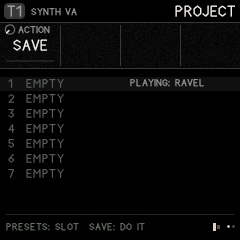
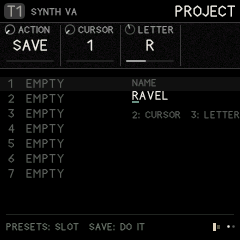
SAVE > PROJECT: name the project, as SOUNDS names a sound
KNOB 2 (CURSOR) and KNOB 3 (LETTER) edit the project's name, shown on
the right with a mark under the letter on the cursor; SAVE keeps it with
the slot and LOAD brings it back. The host gains expect name; a scenario
names a project, saves it and reads the slot's name back.

Claude-Session: https://claude.ai/code/session_01BwzGhPZLDZkrxZk5dy3Yyf

diff --git a/firmware/app/rv_ui.c b/firmware/app/rv_ui.c
@@ -177,7 +177,7 @@ static const page_t pages[] = {
     {SEC_SONG, V_ALL, PIC_CLOCK, PR_NONE, "CLOCK B", {GP(GP_CLKSHAPE), GP(GP_CLKBRATE), GP(GP_CLKBSHAPE), GP(GP_CLKTHR)}},
     {SEC_SONG, V_ALL, PIC_CLOCK, PR_NONE, "CLOCK FEEL", {GP(GP_CLKLOCK), GP(GP_QUANT), GP(GP_METRO), GP(GP_COUNTIN)}},
 
-    {SEC_SAVE, V_ALL, PIC_SAVE, PR_SLOT, "PROJECT", {{K_SAVE, 0}, NO, NO, NO}},
+    {SEC_SAVE, V_ALL, PIC_SAVE, PR_SLOT, "PROJECT", {{K_SAVE, 0}, {K_SAVE, 1}, {K_SAVE, 2}, NO}},   /* the action; the project's name, as SOUNDS names a sound */
     {SEC_SAVE, V_ALL, PIC_BANK, PR_BANK, "SOUNDS", {{K_BANK, 0}, {K_BANK, 1}, {K_BANK, 2}, {K_BANK, 3}}},   /* your own sounds, any kind, in banks A-D */
 };
 #define NPAGES ((int)(sizeof(pages) / sizeof(pages[0])))
@@ -199,7 +199,7 @@ static struct {
     uint8_t step_turned;
     uint8_t key_note[NKEYS];
     uint8_t key_trk[NKEYS];                  /* the track a key's note went to, + 1 (0: the key plays no note) */
-    uint8_t cur_route, cur_mat, cur_macro, cur_row, cur_arr, cur_arc, cur_scene, cur_slot, save_action;
+    uint8_t cur_route, cur_mat, cur_macro, cur_row, cur_arr, cur_arc, cur_scene, cur_slot, save_action, proj_cursor;
     uint16_t cur_lib;
     int16_t preset_idx[RV_TRACKS];
     char msg[24];
@@ -661,10 +661,16 @@ static kinfo_t kb_info(kb_t k)
         break;
     }
     case K_SAVE:
-        r.name = "ACTION";
-        r.max = 5;
-        r.fmt = PF_ENUM;
-        r.names = save_actions;
+        if (k.id == 0) {
+            r.name = "ACTION";
+            r.max = 5;
+            r.fmt = PF_ENUM;
+            r.names = save_actions;
+        } else {                                      /* the project's name: where, then which letter */
+            r.name = k.id == 1 ? "CURSOR" : "LETTER";
+            r.min = k.id == 1 ? 1 : 0;
+            r.max = k.id == 1 ? (int)sizeof rv.name - 1 : rv_bank_nchars() - 1;
+        }
         break;
     case K_BANK:                              /* SOUNDS: the action, then the name (a used slot's) */
         if (k.id == 0) {
@@ -855,7 +861,9 @@ static int kb_get(kb_t k)
         default: return kt->p[l][(f - LF_P0) & 7];
         }
     }
-    case K_SAVE: return ui.save_action;
+    case K_SAVE:
+        return k.id == 0 ? ui.save_action : k.id == 1 ? ui.proj_cursor + 1
+             : rv_bank_char_index(rv.name[ui.proj_cursor % (sizeof rv.name - 1)]);
     case K_BANK:
         return k.id == 0 ? ui.bank_action : k.id == 3 ? rv_bank_current() : k.id == 1 ? ui.bank_cursor + 1
              : rv_bank_char_index(rv_bank_name(ui.cur_sound)[ui.bank_cursor % (RV_BANK_NAME - 1)]);
@@ -1139,7 +1147,21 @@ static void kb_set(kb_t k, int v)
         break;
     }
     case K_SAVE:
-        ui.save_action = (uint8_t)v;
+        if (k.id == 0)
+            ui.save_action = (uint8_t)v;
+        else if (k.id == 1)
+            ui.proj_cursor = (uint8_t)(v - 1);
+        else {                                        /* a letter at the cursor (no holes before it; trailing spaces go) */
+            static const char bc[] = " ABCDEFGHIJKLMNOPQRSTUVWXYZ0123456789-+#&'.";
+            int pos = ui.proj_cursor % (int)(sizeof rv.name - 1), j;
+            rv.name[sizeof rv.name - 1] = 0;
+            for (j = 0; j < pos; j++)
+                if (!rv.name[j])
+                    rv.name[j] = ' ';
+            rv.name[pos] = bc[clampi(v, 0, (int)sizeof bc - 2)];
+            for (j = (int)sizeof rv.name - 2; j >= 0 && (rv.name[j] == ' ' || !rv.name[j]); j--)
+                rv.name[j] = 0;
+        }
         ui.save_confirm = 0;
         break;
     case K_BANK:
@@ -1178,7 +1200,7 @@ static void kb_format(kb_t k, int v, char *o)
         sx_note(o, 60 + v - 64);                    /* the comb's pitch: 64 = C4 */
         return;
     }
-    if (k.kind == K_BANK && k.id == 2) {      /* the letter at the cursor */
+    if ((k.kind == K_BANK || k.kind == K_SAVE) && k.id == 2) {      /* the letter at the cursor */
         static const char bc[] = " ABCDEFGHIJKLMNOPQRSTUVWXYZ0123456789-+#&'.";
         if (v <= 0)
             sx_cat(o, "SPACE");
@@ -3750,10 +3772,17 @@ static void pic_save(void)
         g_text(8, y, &FONT_XS, b, C_DIM);
         g_text(26, y, &FONT_XS, ui.slot_used[i] ? ui.slot_names[i] : "EMPTY", ui.slot_used[i] ? C_INK : C_DIM);
     }
-    {
-        char b[24] = "PLAYING: ";
-        sx_cat(b, rv.name);
-        g_text(130, PIC_Y + 2, &FONT_T, b, C_MID);
+    {   /* the project's name (CURSOR and LETTER edit it; SAVE keeps it with the slot) */
+        char b[16];
+        int k, x;
+        g_text(132, PIC_Y + 2, &FONT_T, "NAME", C_DIM);
+        g_text(132, PIC_Y + 14, &FONT_XS, rv.name[0] ? rv.name : "-", C_INK);
+        for (k = 0; k < ui.proj_cursor && k < (int)sizeof rv.name - 1; k++)
+            b[k] = rv.name[k] ? rv.name[k] : ' ';
+        b[k] = 0;
+        x = 132 + g_text_w(&FONT_XS, b);
+        g_fill(x, PIC_Y + 25, 7, 2, C_AMBER);
+        g_text(132, PIC_Y + 34, &FONT_T, "2: CURSOR  3: LETTER", C_DIM);
     }
 }
 

diff --git a/host/ravel_host.c b/host/ravel_host.c
@@ -21,6 +21,7 @@
  *   expect gp NAME VALUE          a global parameter
  *   expect frozen 0|1             the tape is caught (1) or listening (0)
  *   expect page TITLE             the page on screen
+ *   expect name NAME [SLOT]       the project's name (no spaces), or the one saved in SLOT (1..7)
  *   expect steps T N              track T (1..8) has N steps on in its current pattern
  *   expect peak_db_min DB         the output's peak since the last wav reached DB at least
  */
@@ -359,6 +360,18 @@ int main(int argc, char **argv)
                 float db = 20.0f * log10f(peak_out + 1e-9f);
                 if (db > atof(c)) {
                     printf("FAIL line %d: peak %.1f dB, expected at most %s dB\n", lineno, db, c);
+                    fails++;
+                }
+                continue;
+            } else if (!strcmp(b, "name")) {                 /* the project's name, or slot N's (1..7) */
+                char nm[13];
+                const char *have = rv.name;
+                if (w2[0]) {
+                    rv_slot_used(atoi(w2) - 1, nm);
+                    have = nm;
+                }
+                if (strcmp(have, w1)) {
+                    printf("FAIL line %d: name is \"%s\", expected \"%s\"\n", lineno, have, w1);
                     fails++;
                 }
                 continue;

diff --git a/README.md b/README.md
@@ -1075,8 +1075,9 @@ SAVE has two pages: **PROJECT** (the whole song) and **SOUNDS** (one track's sou
    | DEMO 3 | The graph demo |
    | INIT | A new, blank project |
 
-4. Press **SAVE** once: the footer says "PRESS SAVE AGAIN TO CONFIRM".
-5. Press **SAVE** again to do it.
+4. To name the project, use **KNOB 2 (CURSOR)** to pick a letter's place (1–11) and **KNOB 3 (LETTER)** to choose it (A–Z, 0–9, space and - + # & ' .), as on SOUNDS. The name shows on the right, with a mark under the letter on the cursor. It belongs to the project you are working on, so name it before you SAVE; LOAD brings back the name it was saved with.
+5. Press **SAVE** once: the footer says "PRESS SAVE AGAIN TO CONFIRM".
+6. Press **SAVE** again to do it.
 
 Ravel starts on a blank project every time it is switched on (or the emulator is opened). Saved projects stay in their slots: load one with **LOAD**.
 
